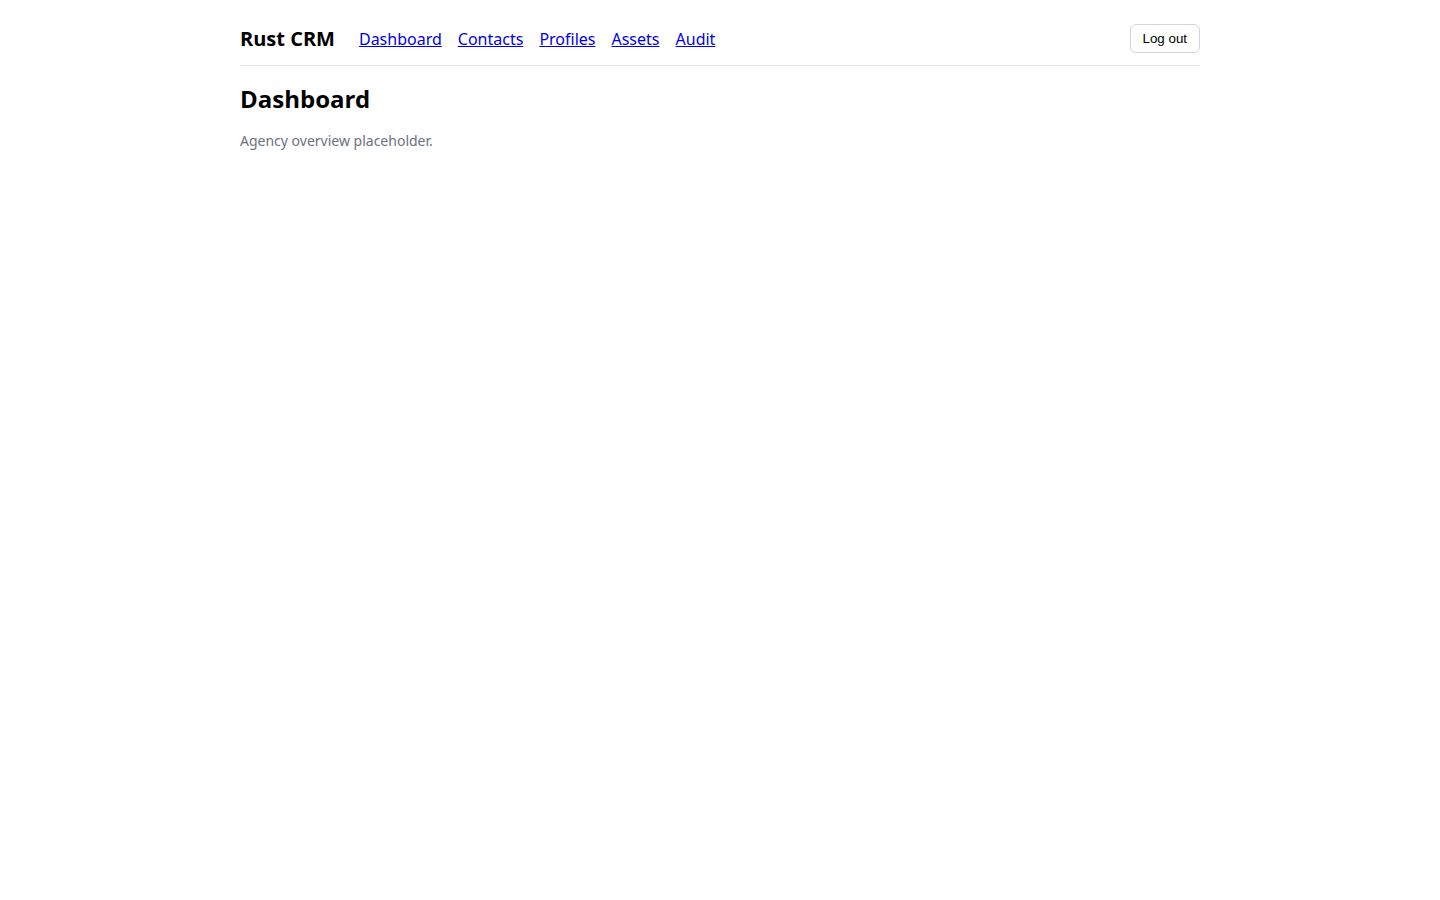
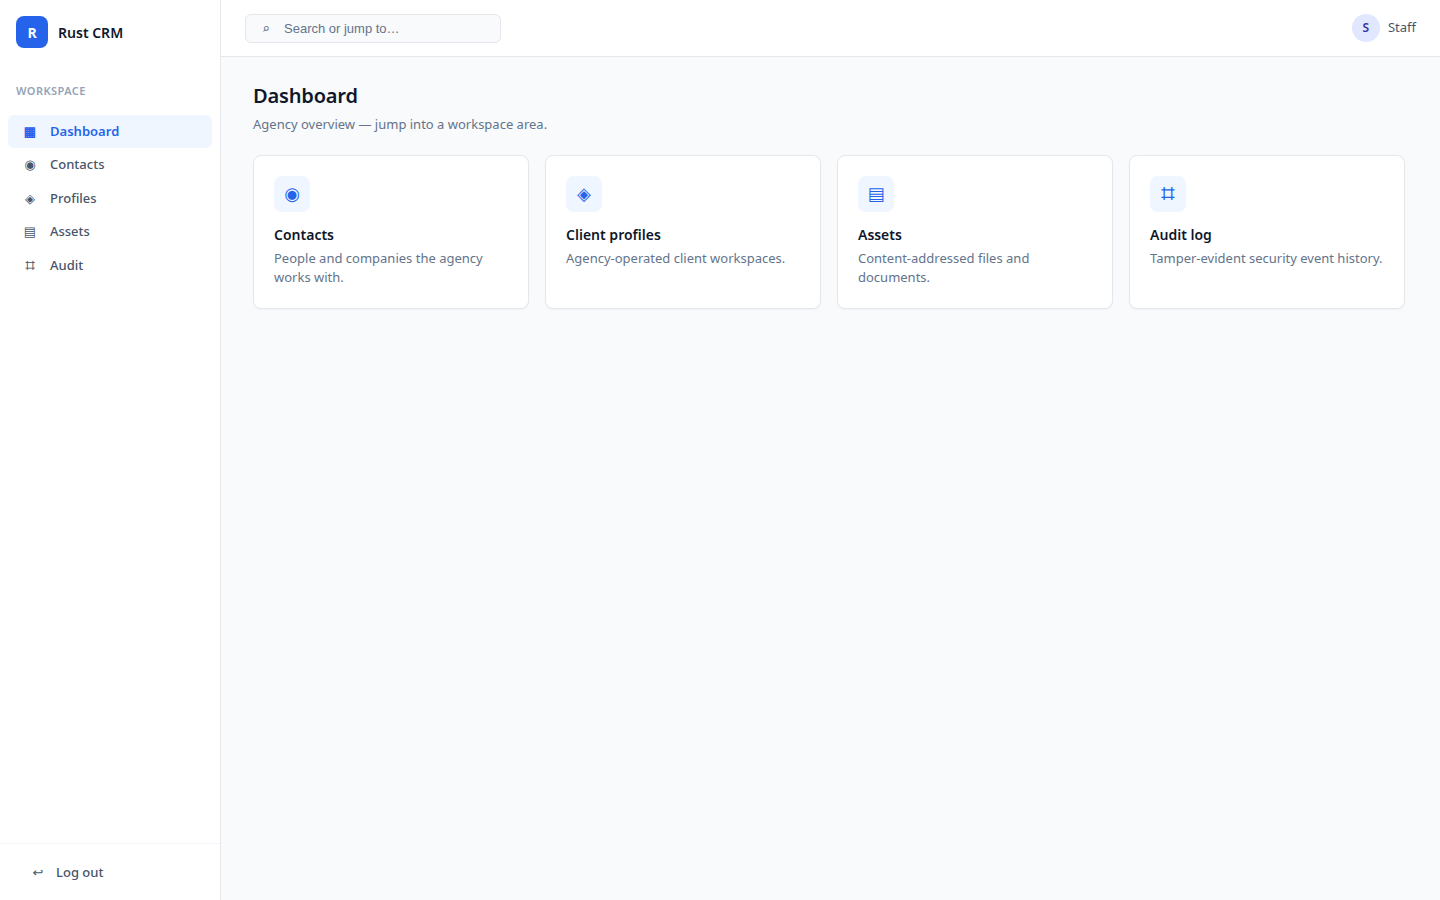
docs: refresh README screenshots with the Twenty-style UI
Replaces the four README screenshots (login, dashboard,
contacts, contact-detail) with real renders of the rebuilt
Twenty-style UI from the UI-RESTYLE workstream (#95/#96).

diff --git a/README.md b/README.md
@@ -13,7 +13,7 @@ AI handoff under [`docs/handoff/`](docs/handoff/) (start with `README.md`,
 
 ## Screenshots
 
-Real renders of the running app (Leptos/WASM frontend, seeded demo data):
+Real renders of the running app (Leptos/WASM frontend in the Twenty-style UI, seeded demo data):
 
 ![Login gate](docs/images/screenshots/login.png)
 *Login gate — staff sign in; there is no client login by design.*
